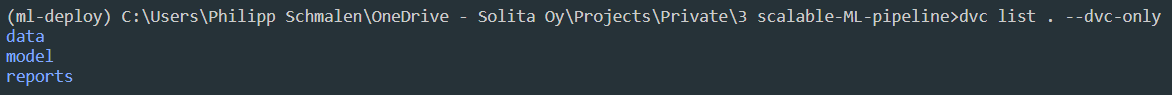
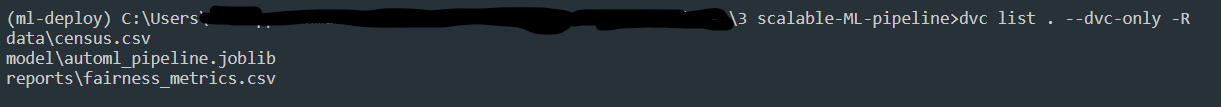
add screenshots and dvc ls

diff --git a/README.md b/README.md
@@ -94,7 +94,7 @@ aws_secret_access_key = asdf
 
 ```bash
 # lists all tracked files
-dvc list . --dvc-only
+dvc list . --dvc-only -R
 ```
 
 ![](screenshots/dvcdag.png)
